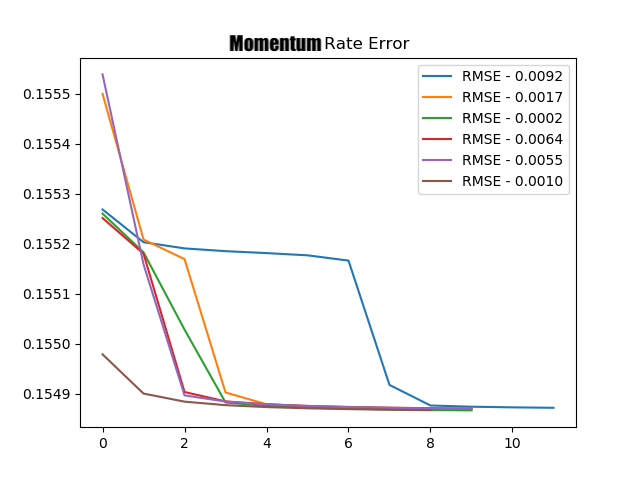
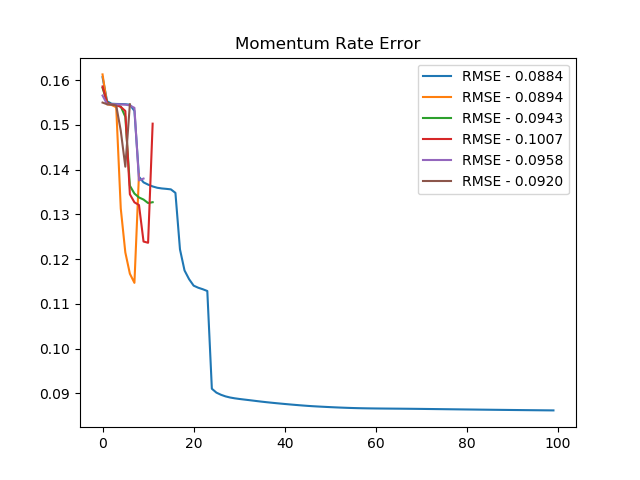
Add new stuff more momentum rate training

diff --git a/main.py b/main.py
@@ -200,8 +200,8 @@ def test_learning_rate():
     plot_tested_rates(rates_and_errors, 'Learning Rate Error', filename)
 
 def test_momentum_rate():
-    momentum_rates = random.default_rng().uniform(0.082, 0.102, 5)
-    momentum_rates = concatenate((momentum_rates, array([0.092])))
+    momentum_rates = random.default_rng().uniform(0.07837, 0.09837, 5)
+    momentum_rates = concatenate((momentum_rates, array([0.08837])))
     layer_neurons = best_layer_architecture[4]
     rates_and_errors = []
     for momentum_rate in momentum_rates:

diff --git a/neural_network.py b/neural_network.py
@@ -29,7 +29,7 @@ def my_matmul(matrix_a, vector):
 class NeuralNetwork:
     layers = []
     learning_rate = 0.6493
-    momentum_rate = 0.092
+    momentum_rate = 0.08837
     previous_size = None
 
     def __init__(self, layer_weights=None, inputs_count=None):
